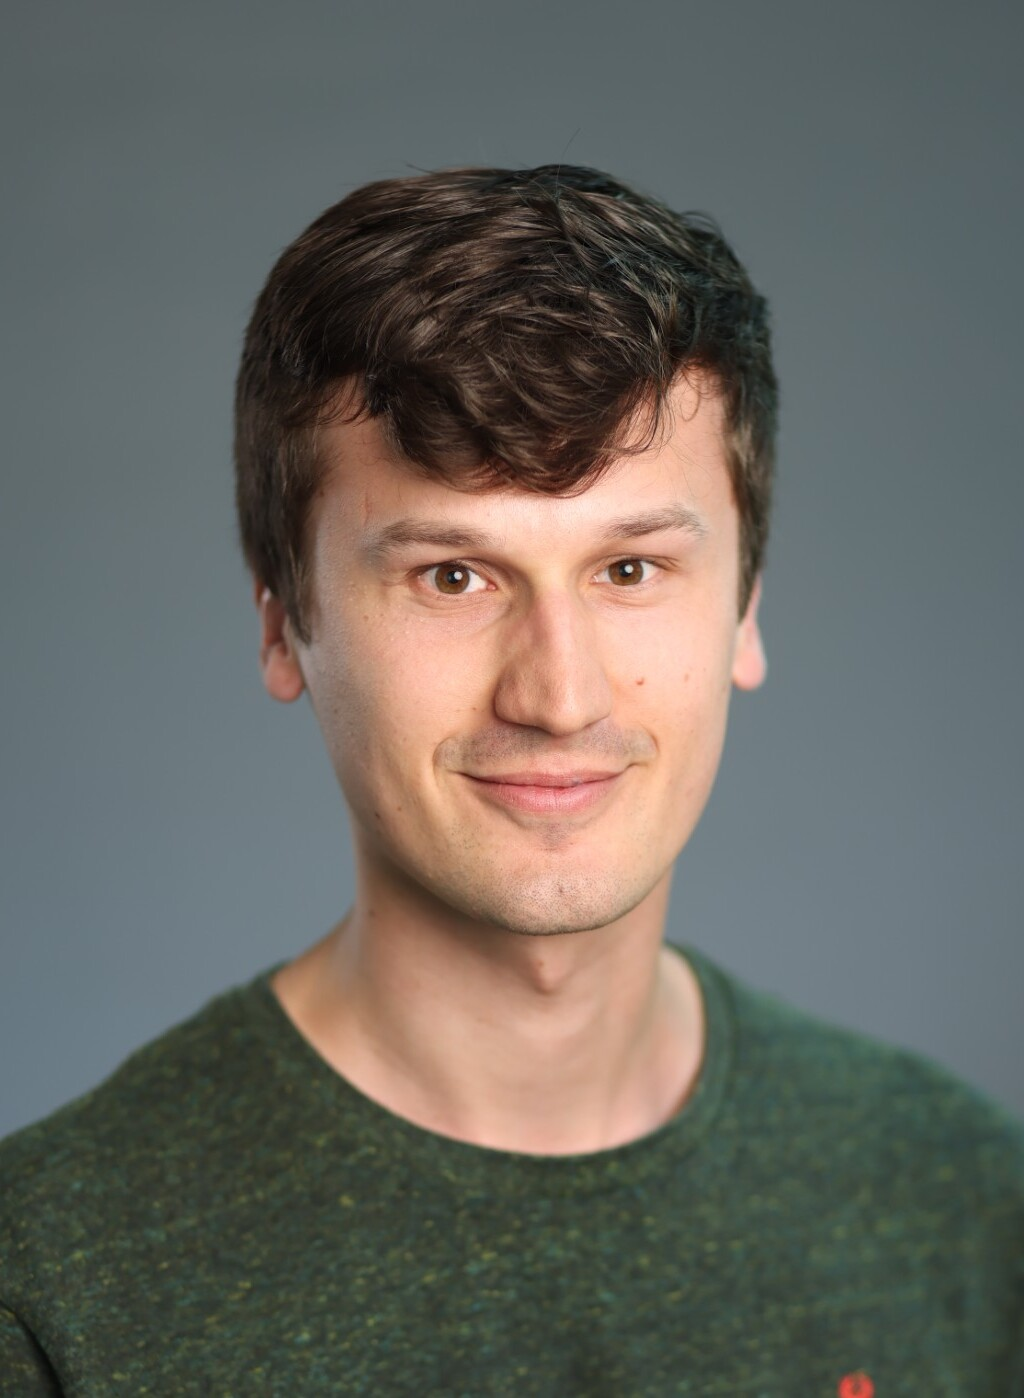
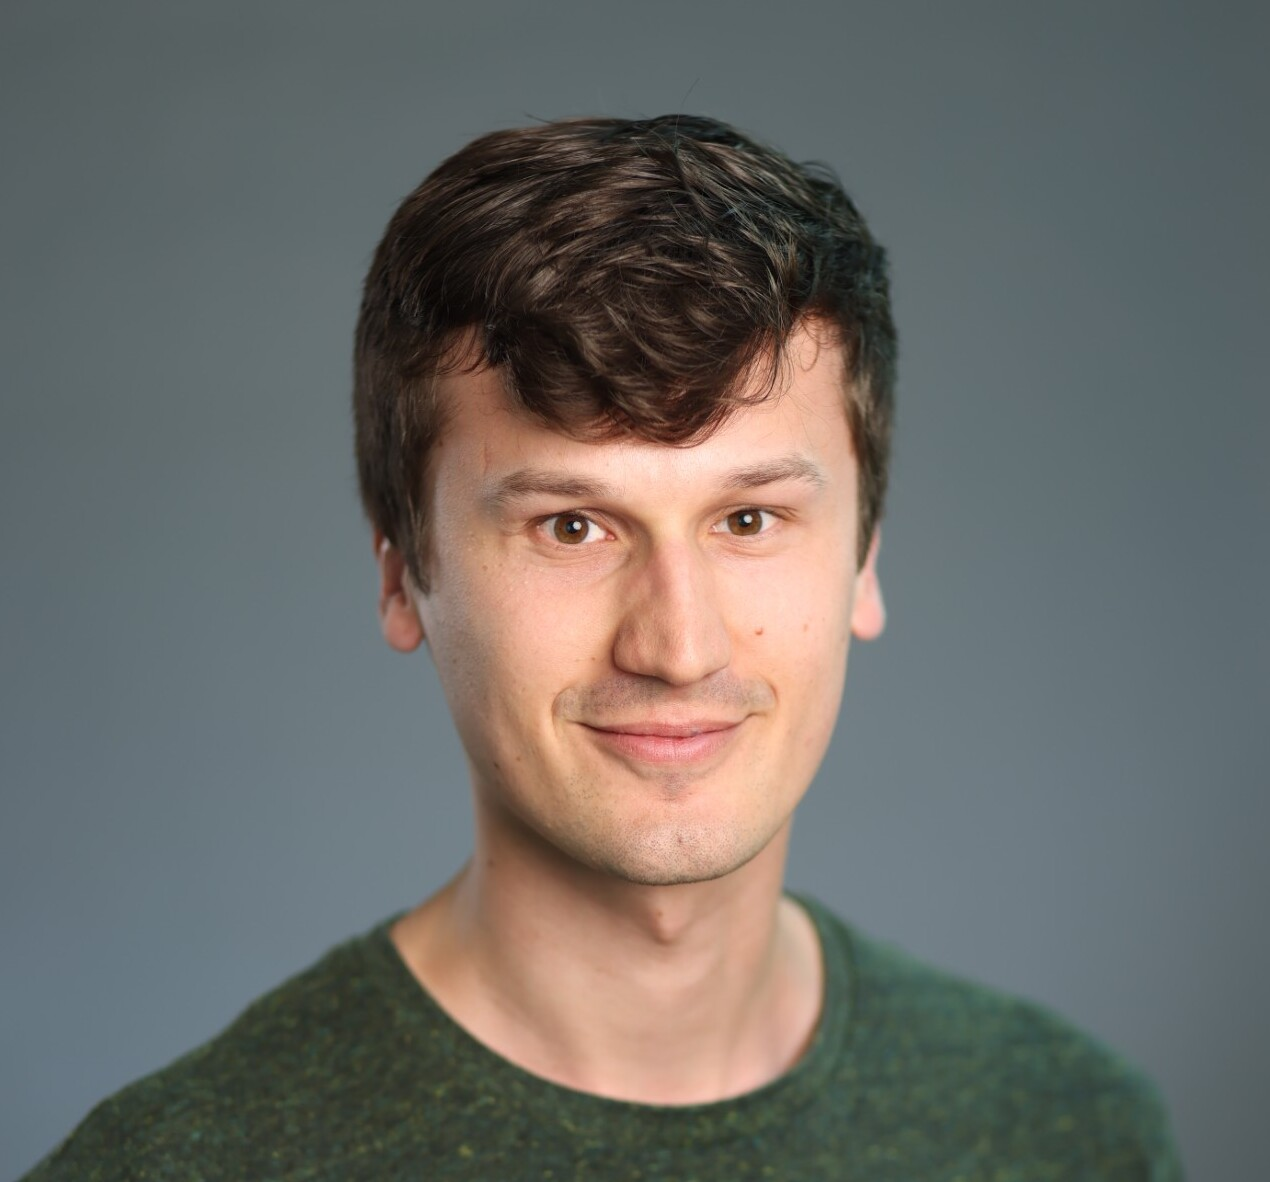
html page

diff --git a/index.html b/index.html
@@ -27,7 +27,7 @@ Homepage of Lars Doorenbos
 <h3 class="add_margin_bottom_positive">Postdoc </h3>
 
 <h4><a href="https://pages.iai.uni-bonn.de/gall_juergen/" target="_blank">Computer Vision Group</a></h4>
-<h4 class="add_margin_bottom_positive"><a href="https://www.uni-bonn.de/en/home" target="_blank">University of Bonn</a></h4>
+<h4 class="add_margin_bottom_positive">University of Bonn</h4>
 
 <!-- <h5 class="add_margin_bottom_negative">Building 28, Room 2.W.680</h5>
 <h5 class="add_margin_top_negative add_margin_bottom_negative">Van Mourik Broekmanweg 6, 2628XE Delft</h5>
@@ -92,7 +92,7 @@ Homepage of Lars Doorenbos
 
 <h3>Publications</h3>
 
-An up-to-date list of all my publications can be found on my <a href="https://scholar.google.com/citations?user=i2LqZCwAAAAJ&hl=en" target="_blank">Google Scholar profile</a>. Below is the list of recent most representative publications.
+An up-to-date list of all my publications can be found on <a href="https://scholar.google.com/citations?user=i2LqZCwAAAAJ&hl=en" target="_blank">Google Scholar</a>. Below is a list of recent, representative publications.
 
 <ul>
 
@@ -261,8 +261,8 @@ The list below summarizes past and current supervised students since I joined <a
 <h4 class="add_margin_top_positive">Career</h4>
 
 <ul>
-<li><span class="text_bold">Postdoc:</span> Computer Vision Group, University of Bonn, Germany</a><span class="btn_transparent">Supervisor: Juergen Gall</span> <span class="hfill">2025–Now</span></li>
-<li><span class="text_bold">Intern:</span> Holoscan group, NVIDIA</a><span class="btn_transparent">Supervisor: Sean Huver</span> <span class="hfill">2023</span></li>
+<li><span class="text_bold">Postdoc:</span> Computer Vision Group, University of Bonn, Germany </a><span class="btn_transparent">Supervisor: Juergen Gall</span> <span class="hfill">2025–Now</span></li>
+<li><span class="text_bold">Intern:</span> Holoscan group, NVIDIA </a><span class="btn_transparent">Supervisor: Sean Huver</span> <span class="hfill">2023</span></li>
 </ul>
 <!-- <li><span class="text_bold">PhD student, Artificial Intelligence in Medical Imaging Group, University of Bern, Switzerland. <span class="btn_transparent">Supervisors: Raphael Sznitman, Pablo Márquez Neila</span> <span class="hfill">2020–2024</span></li> -->
 <!-- <li><span class="text_bold"> Postdoc:</span> <a href="https://cores.ee.ucla.edu/" target="_blank">Cognitive Reconfigurable Embedded Systems Lab</a>, <a class="text_bold" href="https://www.ucla.edu/" target="_blank">UCLA, USA</a></h5> <span class="btn_transparent">Mentor: <a href="https://www.ee.ucla.edu/danijela-cabric/" target="_blank">Danijela Čabrić</a></span> <span class="hfill">2019–2011</span></li> -->
@@ -271,7 +271,7 @@ The list below summarizes past and current supervised students since I joined <a
 <h4 class="add_margin_top_positive">Education</h4>
 
 <ul>
-<li><span class="text_bold">PhD:</span> University of Bern, Switzerland <span class="btn_transparent">Promotors: Raphael Sznitman, Pablo Márquez Neila</span> <span class="hfill">2020–2024</span></li>
+<li><span class="text_bold">PhD:</span> University of Bern, Switzerland <span class="btn_transparent">Supervisors: Raphael Sznitman, Pablo Márquez Neila</span> <span class="hfill">2020–2024</span></li>
 
 <ul>
 <li>Thesis: Reliably Processing Unexpected and Ambiguous Images in Computer Vision</li>
